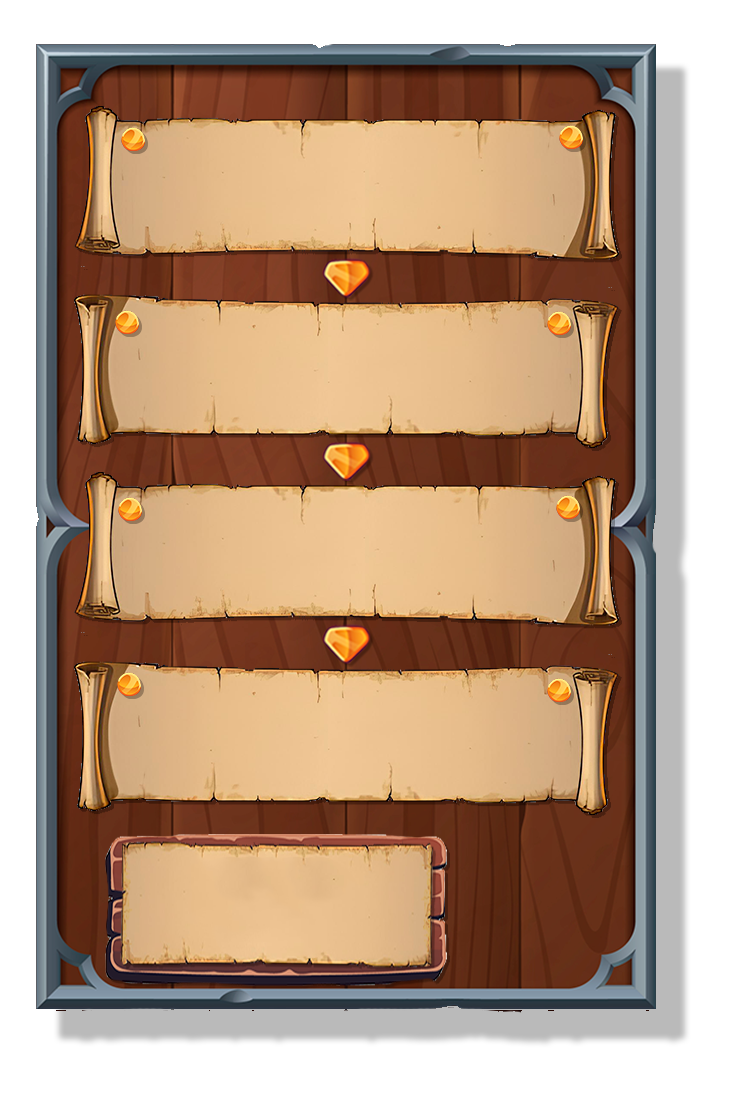
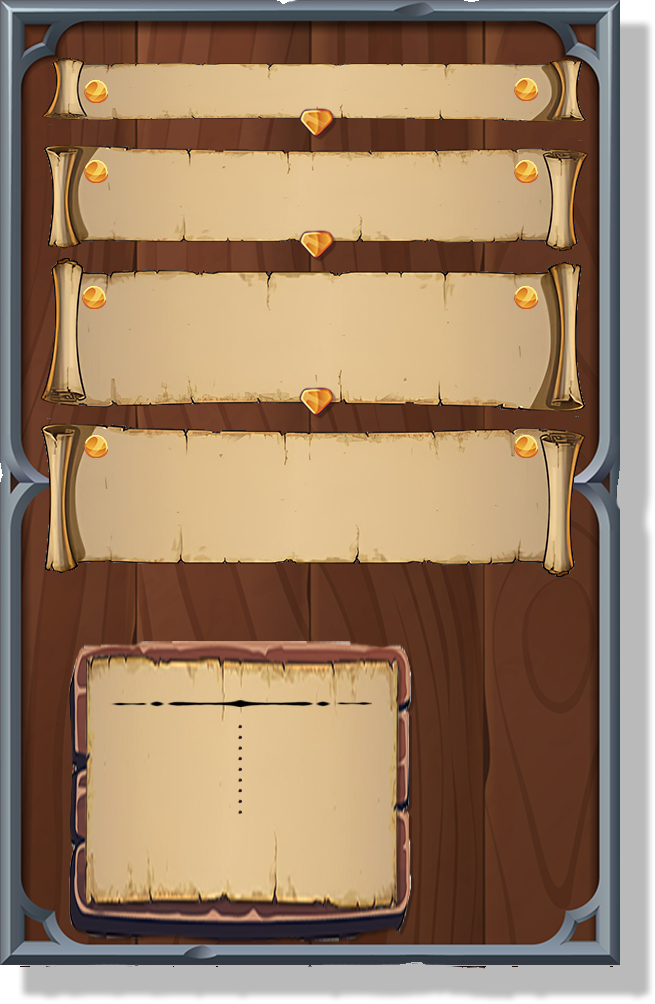
feat(variable-explanation): Visual edit of upgrade overview. Upgrade overview is now showing upkeep & costs in a listview.

diff --git a/src/main/java/de/uniks/stp24/component/game/OverviewUpgradeComponent.java b/src/main/java/de/uniks/stp24/component/game/OverviewUpgradeComponent.java
@@ -1,25 +1,30 @@
 package de.uniks.stp24.component.game;
 
+import de.uniks.stp24.App;
 import de.uniks.stp24.controllers.InGameController;
 import de.uniks.stp24.rest.GameSystemsApiService;
 import de.uniks.stp24.service.InGameService;
 import de.uniks.stp24.service.IslandAttributeStorage;
 import de.uniks.stp24.service.TokenStorage;
+import de.uniks.stp24.service.game.ExplanationService;
 import de.uniks.stp24.service.game.IslandsService;
 import de.uniks.stp24.service.game.ResourcesService;
+import javafx.collections.ObservableList;
 import javafx.fxml.FXML;
+import de.uniks.stp24.model.Resource;
 import javafx.scene.control.Button;
 import javafx.scene.control.Label;
+import javafx.scene.control.ListView;
 import javafx.scene.layout.AnchorPane;
 import javafx.scene.layout.HBox;
 import javafx.scene.layout.Pane;
 import javafx.scene.text.Text;
 import org.fulib.fx.annotation.controller.Component;
-import org.fulib.fx.annotation.controller.Resource;
 import org.fulib.fx.controller.Subscriber;
 
 import javax.inject.Inject;
 import javax.inject.Named;
+import javax.inject.Provider;
 import java.util.Arrays;
 import java.util.LinkedList;
 import java.util.Map;
@@ -27,10 +32,6 @@ import java.util.*;
 
 @Component(view = "IslandOverviewUpgrade.fxml")
 public class OverviewUpgradeComponent extends AnchorPane {
-    @FXML
-    public Text res_2;
-    @FXML
-    public Text res_1;
     @FXML
     public Button confirmUpgrade;
     @FXML
@@ -58,9 +59,10 @@ public class OverviewUpgradeComponent extends AnchorPane {
     @FXML
     public Label levelFourText;
     @FXML
-    public Pane res1;
+    public ListView upgradeUpkeepList;
     @FXML
-    public Pane res2;
+    public ListView upgradeCostList;
+
     @Inject
     InGameService inGameService;
     @Inject
@@ -74,13 +76,19 @@ public class OverviewUpgradeComponent extends AnchorPane {
     @Inject
     IslandsService islandsService;
     @Inject
-    @Resource
+    ExplanationService explanationService;
+    @Inject
+    App app;
+    @Inject
+    @org.fulib.fx.annotation.controller.Resource
     @Named("gameResourceBundle")
     ResourceBundle gameResourceBundle;
 
     public GameSystemsApiService gameSystemsService;
 
     private InGameController inGameController;
+
+    Provider<ResourceComponent> resourceComponentProvider = ()-> new ResourceComponent(true, false, true, false, gameResourceBundle);
 
     @Inject
     public OverviewUpgradeComponent() {
@@ -117,31 +125,29 @@ public class OverviewUpgradeComponent extends AnchorPane {
         this.inGameController = inGameController;
     }
 
-    public void setNeededResources() {
-        if (inGameController != null) {
-            LinkedList<Text> resTextList = new LinkedList<>(Arrays.asList(res_1, res_2));
-            ArrayList<Pane> resPic = new ArrayList<>(Arrays.asList(res1, res2));
-            int i = 0;
-            for (Map.Entry<String, Integer> entry : islandAttributes.getNeededResources(islandAttributes.getIsland().upgradeLevel()).entrySet()) {
-                resTextList.get(i).setText(String.valueOf(entry.getValue()));
-                String sourceImage = switch (entry.getKey()) {
-                    case "minerals" -> "-fx-background-image: url('/de/uniks/stp24/icons/resources/minerals.png'); ";
-                    case "energy" -> "-fx-background-image: url('/de/uniks/stp24/icons/resources/energy.png'); ";
-                    case "alloys" -> "-fx-background-image: url('/de/uniks/stp24/icons/resources/alloys.png'); ";
-                    case "fuel" -> "-fx-background-image: url('/de/uniks/stp24/icons/resources/fuel.png'); ";
-                    default -> "";
-                };
-                resPic.get(i).setStyle(sourceImage +
-                        "-fx-background-size: cover;");
-                i += 1;
-            }
-        }
+    public void setListViews() {
+        setCosts();
+        setConsumes();
+    }
+
+    public void setCosts(){
+        upgradeCostList.setCellFactory(list -> explanationService.addMouseHoverListener(new CustomComponentListCell<>(app, resourceComponentProvider), "islandOverview", "upgrade.costs"));
+        Map<String, Integer> resourceMapCost = islandAttributes.getNeededResources(islandAttributes.getIsland().upgradeLevel());
+        ObservableList<Resource> resourceListCost = resourcesService.generateResourceList(resourceMapCost, upgradeCostList.getItems(), null);
+        upgradeCostList.setItems(resourceListCost);
+    }
+
+    public void setConsumes(){
+        upgradeUpkeepList.setCellFactory(list -> explanationService.addMouseHoverListener(new CustomComponentListCell<>(app, resourceComponentProvider), "islandOverview", "upgrade.upkeep"));
+        Map<String, Integer> resourceMapUpkeep = islandAttributes.getUpkeep(islandAttributes.getIsland().upgradeLevel());
+        ObservableList<Resource> resourceListUpkeep = resourcesService.generateResourceList(resourceMapUpkeep, upgradeUpkeepList.getItems(), null);
+        upgradeUpkeepList.setItems(resourceListUpkeep);
     }
 
     public void upgradeIsland() {
         if (resourcesService.hasEnoughResources(islandAttributes.getNeededResources(islandAttributes.getIsland().upgradeLevel()))) {
-            resourcesService.upgradeIsland();
-            setNeededResources();
+            resourcesService.upgradeEmpire();
+            setListViews();
             String upgradeStatus = switch (islandAttributes.getIsland().upgradeLevel()) {
                 case 0 -> islandAttributes.systemPresets.explored().id();
                 case 1 -> islandAttributes.systemPresets.colonized().id();

diff --git a/src/main/java/de/uniks/stp24/controllers/InGameController.java b/src/main/java/de/uniks/stp24/controllers/InGameController.java
@@ -1,27 +1,22 @@
 package de.uniks.stp24.controllers;
 
 import de.uniks.stp24.component.game.*;
+import de.uniks.stp24.component.menu.DeleteStructureComponent;
 import de.uniks.stp24.component.menu.PauseMenuComponent;
 import de.uniks.stp24.component.menu.SettingsComponent;
 import de.uniks.stp24.dto.EmpireDto;
-import de.uniks.stp24.component.game.ClockComponent;
-import de.uniks.stp24.component.game.IslandComponent;
-import de.uniks.stp24.component.game.StorageOverviewComponent;
-import de.uniks.stp24.component.menu.*;
-import de.uniks.stp24.dto.ExplainedVariableDTO;
 import de.uniks.stp24.model.GameStatus;
-import de.uniks.stp24.model.Island;
 import de.uniks.stp24.records.GameListenerTriple;
 import de.uniks.stp24.rest.GameLogicApiService;
 import de.uniks.stp24.rest.GameSystemsApiService;
 import de.uniks.stp24.service.InGameService;
 import de.uniks.stp24.service.IslandAttributeStorage;
+import de.uniks.stp24.service.PopupBuilder;
 import de.uniks.stp24.service.game.*;
 import de.uniks.stp24.service.menu.GamesService;
 import de.uniks.stp24.service.menu.LobbyService;
 import de.uniks.stp24.ws.EventListener;
 import javafx.application.Platform;
-import de.uniks.stp24.service.PopupBuilder;
 import javafx.fxml.FXML;
 import javafx.scene.Group;
 import javafx.scene.control.Button;
@@ -39,13 +34,16 @@ import org.fulib.fx.annotation.event.OnDestroy;
 import org.fulib.fx.annotation.event.OnInit;
 import org.fulib.fx.annotation.event.OnKey;
 import org.fulib.fx.annotation.event.OnRender;
-import org.jetbrains.annotations.NotNull;
 import org.fulib.fx.controller.Subscriber;
+import org.jetbrains.annotations.NotNull;
 
 import javax.inject.Inject;
 import java.beans.PropertyChangeEvent;
 import java.beans.PropertyChangeListener;
-import java.util.*;
+import java.util.ArrayList;
+import java.util.List;
+import java.util.Map;
+import java.util.Objects;
 
 @Title("CALVARIO")
 @Controller
@@ -219,15 +217,6 @@ public class InGameController extends BasicController {
         this.subscriber.subscribe(inGameService.loadDistrictPresets(),
                 result -> islandAttributes.setDistrictPresets(result),
                 error -> System.out.println("error in getEmpire in inGame"));
-
-        /*
-        this.subscriber.subscribe(inGameService.getVariablesPresets(),
-                result -> {
-                    explanationService.allVariables.addAll(result.keySet());
-                },
-                error -> System.out.println("error in getEmpire in inGame"));
-
-         */
 
         if (!tokenStorage.isSpectator()) {
             this.subscriber.subscribe(empireService.getEmpire(gameID, empireID),

diff --git a/src/main/java/de/uniks/stp24/service/IslandAttributeStorage.java b/src/main/java/de/uniks/stp24/service/IslandAttributeStorage.java
@@ -91,6 +91,15 @@ public class IslandAttributeStorage {
         };
     }
 
+    public Map<String, Integer> getUpkeep(int key) {
+        return switch (key) {
+            case 2 -> systemPresets.colonized().upkeep();
+            case 3 -> systemPresets.developed().upkeep();
+            case 4 -> systemPresets.upgraded().upkeep();
+            default -> null;
+        };
+    }
+
     public Map<String, Integer> getAvailableResources() {
         return empireDto.resources();
     }

diff --git a/src/main/java/de/uniks/stp24/component/game/OverviewSitesComponent.java b/src/main/java/de/uniks/stp24/component/game/OverviewSitesComponent.java
@@ -101,7 +101,7 @@ public class OverviewSitesComponent extends AnchorPane {
         }
         inGameService.showOnly(inGameController.overviewContainer, inGameController.overviewUpgradeComponent);
         inGameController.overviewUpgradeComponent.setUpgradeButton();
-        inGameController.overviewUpgradeComponent.setNeededResources();
+        inGameController.overviewUpgradeComponent.setListViews();
         inGameController.overviewUpgradeComponent.setUpgradeInf();
     }
 

diff --git a/src/main/java/de/uniks/stp24/service/game/ResourcesService.java b/src/main/java/de/uniks/stp24/service/game/ResourcesService.java
@@ -174,7 +174,7 @@ public class ResourcesService {
     }
 
 
-    public void upgradeIsland() {
+    public void upgradeEmpire() {
         Map<String, Integer> difRes = updateAvailableResources(islandAttributes.getNeededResources(islandAttributes.getIsland().upgradeLevel()));
 
         this.subscriber.subscribe(empireService.updateEmpire(tokenStorage.getGameId(), tokenStorage.getEmpireId(),
